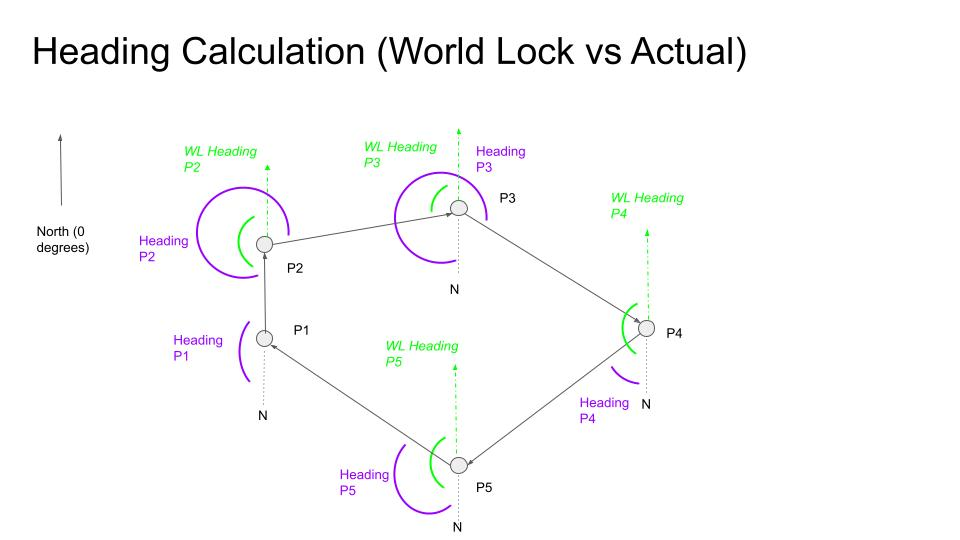
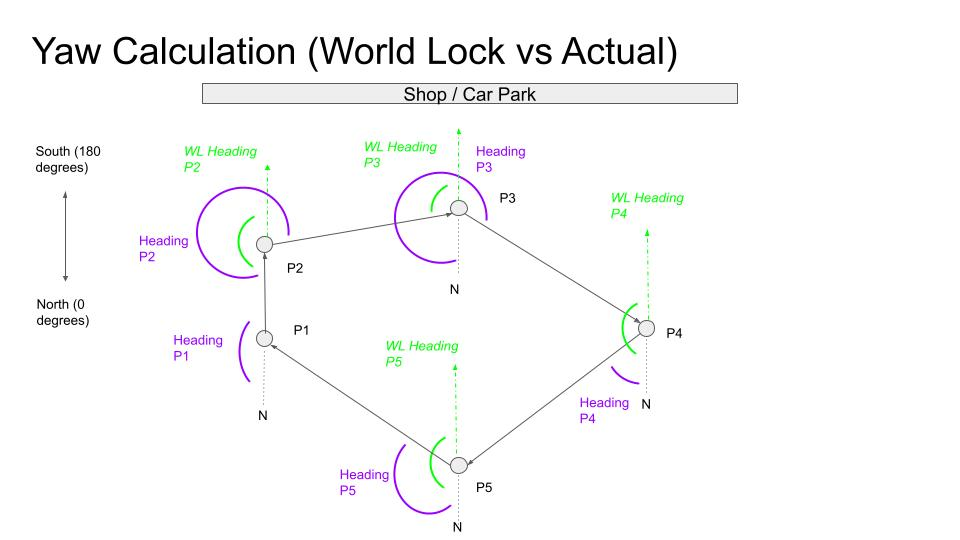
adding friday post

diff --git a/_posts/2022-06-10-calculating-heading-of-gopro-video-using-gpmf-part-3.md b/_posts/2022-06-10-calculating-heading-of-gopro-video-using-gpmf-part-3.md
@@ -5,15 +5,15 @@ description: "Using calculated heading values to ensure videos are shown in 360 
 categories: developers
 tags: [ffmpeg, yaw, pitch, roll, equirectangular, video, gopro studio]
 author_staff_member: dgreenwood
-image: /assets/images/blog/2022-06-10/
-featured_image: /assets/images/blog/2022-06-10/
+image: /assets/images/blog/2022-06-10/gopro-rpy-meta.jpg
+featured_image: /assets/images/blog/2022-06-10/gopro-rpy-sm.jpg
 layout: post
-published: false
+published: true
 ---
 
 **Using calculated heading values to ensure videos are shown in 360 players facing the same direction as they were shot.**
 
-Now that we have the heading values for each frame in the video, we can use them to adjust the yaw in our World Lock video to reverse the effect.
+Now that we have the heading values for each frame in the video ([see last weeks post](/blog/2022/calculating-heading-of-gopro-video-using-gpmf-part-2)), we can use them to adjust the yaw in our World Lock video to reverse the effect.
 
 To do this, we can take exactly the same approach as I showed you for images in the post; [Adjusting the yaw of an equirectangular 360 photo using ImageMagick](/blog/2022/adjusting-yaw-equirectangular-images).
 
@@ -23,18 +23,67 @@ That is;
 2. calculate the yaw adjustment needed using the calculation `true heading` (reported in telemetry .json) - `World Lock heading` (calculated at step 1)
 3. pass the value to ffmpeg
 
-It's easy to align frames to heading values, because we have a `HEAD` value for each frame (with `date` and `cts` times), so we just iterate through frames and `HEAD` values to make the adjustment.
+It's easy to align frames to heading values, because we have a `HEAD` value (heading in degrees) for each frame (with `date` and `cts` times) and the framerate of the video reported in the telemetry, so we just iterate through frames and `HEAD` values to make the adjustment.
 
-TODO
+I couldn't find any documentation referencing if the `v360` filter to say that it supports a time option so the process works by first extracting the frames and applying the filter to them one-by-one.
 
+In summary my proposed ffmpeg workflow is as follows;
+
+1. Extract all the frames in the video using ffmpeg
+	* `ffmpeg -i <videopath> -r <frame_rate_str> -q:v 2 <extract_dir>/%9d.jpg`
+2. Take the framerate information so I know each frames time to compare against cts value in the telemetry to get the right sensor value for each frame
+3. Take the first frames heading from the telemetry `HEAD` stream (the World Lock heading)
+4. Take the frames heading value from the telemetry `HEAD` stream
+5. Calculate the delta (frame `HEAD` value - first frames `HEAD` value)
+6. Adjust frames using ffmpeg `v360` filter with the `yaw` value to the delta calculated at step 5 for each frame
+	* `ffmpeg -i <frame_path> -vf v360=input=e:e:<yaw:roll:pitch> <out_path>`
+7. Rebuild the video from frames adjusted in the last step
+	* `ffmpeg -y -r <frame_rate_str> -f concat -safe 0 -i images.txt -c:v libx264 -vf "fps=<frame_rate_str>,format=yuv420p" <out.mp4>`
+7. Copy the other streams (audio and telemetry) to the newly processed video (with adjusted yaw)
+	* [See my ffmpeg cheat sheet for how to do this](/blog/2022/ffmpeg-video-to-frame-cheat-sheet)
+
+So, going back to our original World Lock video I built this proof-of-concept for:
+
+<iframe width="560" height="315" src="https://www.youtube-nocookie.com/embed/3Hces_LyGZU" title="YouTube video player" frameborder="0" allow="accelerometer; autoplay; clipboard-write; encrypted-media; gyroscope; picture-in-picture" allowfullscreen></iframe>
+
+And now, here it is after adjusting for World Lock (or as I like to call it, UnWorld Locked):
+
+<iframe width="560" height="315" src="https://www.youtube-nocookie.com/embed/rZxu6p-ABJk" title="YouTube video player" frameborder="0" allow="accelerometer; autoplay; clipboard-write; encrypted-media; gyroscope; picture-in-picture" allowfullscreen></iframe>
+
+It works!
+
+However, you will notice it is shaky along the horizontal plane. This is likely due to noise registered by the sensors in the camera (gyroscope, accelerometer, and magnetometer) used to perform the adjustment calculations.
+
+You can see a bit of that in the graphs shared last week, here's one for heading (note some jolts)
+
+## High and low pass filters
+
+One simple, and probably quite effective solution would be to implement a low and high pass filter on the telemetry values used to calculate roll, pitch, yaw and heading values from.
+
+High and low pass filters, filter out or smooth the desired extreme frequencies (based and the high and low end values) found in the telemetry.
+
+These types of filter are used by a lot of software, including the all current GoPro camera firmware and in GoPro's post-processing tools.
+
+Though it sounds simple, this topic gets complex very quickly. If I wanted to, I could use post-processing to stabilise the video (as it still contains the original telemetry). Whilst I won't for this post, if I did, [Gyroflow in my limited experience is a useful tool for this (and supports a variety of cameras)](https://gyroflow.xyz/).
 
 ## Is dynamic yaw adjustment only useful for World Lock mode?
 
 Unlike pitch and roll adjustments (that I will talk about next week), yaw is much more subjective. 
 
-When World Lock mode is not used, yaw=0 will always be the direction the front lens is facing.
+When World Lock mode is not used, yaw=0 will always be the direction the front lens is facing. 99% of the time this is fine.
 
-As noted in post on
+The other use-case for dynamic yaw adjustment in non-World Lock modes is target fixation.
 
+For example, lets say in my video I wanted the camera to stay fixed on a car. 
 
-## Automatinng t
+To do this, you need to know the position (GPS co-ordinates) of the object in relationship to the camera.
+
+<img class="img-fluid" src="/assets/images/blog/2022-06-10/yaw-adjustment-target.jpg" alt="Yaw adjustment for target" title="Yaw adjustment for target" />
+
+With these values, you can calculate the heading of the object. With true heading, and heading of the object you can then find the yaw offset (delta) value in the same way (`true heading` - `target heading`).
+
+## tl;dr scripted proof-of-concept
+
+The implementation discussed over the last 3 weeks was fully implemented by us as proof-of-concept code.
+
+If you want to give it a try for yourself, [check out our GoPro RPY repository on GitHub](https://github.com/trek-view/gopro-rpy/), which will perform the UnWorld Lock process described earlier in this post.

diff --git a/_posts/2022-05-27-calculating-heading-of-gopro-video-using-gpmf-part-1.md b/_posts/2022-05-27-calculating-heading-of-gopro-video-using-gpmf-part-1.md
@@ -25,15 +25,7 @@ Here it is before yaw adjustment:
 
 <iframe width="560" height="315" src="https://www.youtube-nocookie.com/embed/3Hces_LyGZU" title="YouTube video player" frameborder="0" allow="accelerometer; autoplay; clipboard-write; encrypted-media; gyroscope; picture-in-picture" allowfullscreen></iframe>
 
-If you remember back to a post I did for dynamic yaw adjustment in GoPro 360 videos earlier this month, I showed you a static way of using ffmpeg
-
-```shell
-ffmpeg -i GS010013-worldlock.mp4 -vf v360=e:e:yaw=180 -c:v libx265 GS010013-worldlock-yaw180.mp4
-```
-
-In addition to `yaw`, the `v360` filter also takes the arguements:
-
-And now with yaw adjusted by 180 degrees using the ffmpeg command
+The `v360` filter takes a fixed `yaw` values to apply to all frames like so;
 
 ```shell
 ffmpeg -i GS010013-worldlock.mp4 -vf v360=e:e:yaw=180 -c:v libx265 GS010013-worldlock-yaw180.mp4
@@ -50,7 +42,7 @@ _Don't forget to copy over global metadata too (the above ffmpeg command will on
 exiftool -TagsFromFile GS010013-worldlock.mp4 "-all:all>all:all" GS010013-worldlock-yaw180.mp4
 ```
 
-And after:
+And the result:
 
 <iframe width="560" height="315" src="https://www.youtube-nocookie.com/embed/sBFqLfqVLQQ" title="YouTube video player" frameborder="0" allow="accelerometer; autoplay; clipboard-write; encrypted-media; gyroscope; picture-in-picture" allowfullscreen></iframe>
 
@@ -64,7 +56,7 @@ Luckily for us, the GoPro GPMD telemetry allows us to calculate true heading for
 
 [The GPMD telemetry includes a whole host of data](/blog/2022/evolution-of-gopro-camera-sensors-gpmf), including `MAGN` (values recorded by the cameras Magnetometer) and `CORI` (Camera Orientation).
 
-For reference here is GoPro sensor axis configuration for the sensors;
+For reference here is the GoPro sensor axis configuration for the sensors;
 
 <img class="img-fluid" src="/assets/images/blog/2022-05-27/CameraIMUOrientationSM.png" alt="GoPro Camera Axis Orientation" title="GoPro Camera Axis Orientation" />
 

diff --git a/_posts/2022-04-01-gopro-telemetry-exporter-getting-started.md b/_posts/2022-04-01-gopro-telemetry-exporter-getting-started.md
@@ -99,7 +99,7 @@ And in the directory, you should see a `.json` file called `GS018422-full-teleme
 
 Depending on the camera, model, settings and accessories used, you will see values reported for various `streams`, e.g. (`ACCL`: 3-axis accelerometer, `GYRO`: 3-axis gyroscope, `GPS5`: Latitude, longitude, altitude (WGS 84), 2D ground speed, and 3D speed...).
 
-It's also worth pointing out, older cameras report the same type of data in different ways. For example, the `GPS5` stream is used on newer GoPro cameras, whereas I'm told (although can't validate) for HERO 4 and older cameras this is reported as `GLPI`.
+It's also worth pointing out, older cameras report the same type of data in different ways. For example, the `GPS5` stream is used on newer GoPro cameras, whereas I'm told (although the only place I can validate this stream ever existed is in the [exiftool docs](https://exiftool.org/TagNames/GoPro.html)) for HERO 4 and older cameras this is reported as `GLPI`.
 
 [You can find information on what many sensors are called (and what cameras / modes produce data for them) here](https://github.com/gopro/gpmf-parser#where-to-find-gpmf-data).
 
